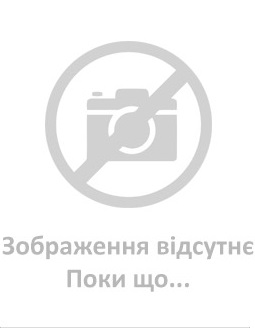
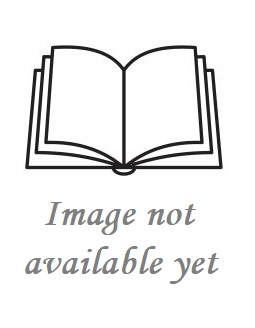
delete header-img, fixed to del from cart, set sweetalert, change img bookEmpty, Cart and Specifibook - add Sweetalert

Changed region(s): [[0.0, 0.122, 0.9882, 0.8841], [0.0, 0.9756, 0.9608, 1.0], [0.1647, 0.6098, 0.2471, 0.7012]]

diff --git a/src/Components/Cart.js b/src/Components/Cart.js
@@ -5,16 +5,17 @@ import { BookCartContext } from "../App";
 import { useContext } from 'react';
 import BookToCart from './BookToCart';
 import { useNavigate } from 'react-router-dom';
-
+import Swal from 'sweetalert2'
+import withReactContent from 'sweetalert2-react-content'
 
 function FullCart({ array }) {
     let sum = 0;
     const [BookCart] = useContext(BookCartContext);
-    BookCart.forEach((b) => sum += b.totalPrice*100);
+    BookCart.forEach((b) => sum += b.totalPrice);
     return (
         <>
             {array.map((b) => <BookToCart book={b} key={b.id} />)}
-            <div className="totalPrice"><p><b>Total price, $ {sum/100}</b></p></div>
+            <div className="totalPrice"><p><b>Total price, $ {sum.toFixed(2)}</b></p></div>
         </>
     )
 }
@@ -22,9 +23,9 @@ function FullCart({ array }) {
 function EmptyCart() {
     return (
         <>
-            <div className="container_form_v">
-                <img src={cart2} alt="basket" width="200" height="200" />
-                <div>
+            <div className="container_emptyCart">
+                <img className="img-emptyCart" src={cart2} alt="basket" width="200" height="200" />
+                <div className="text-emptyCart">
                     Cart empty...
                 </div>
             </div>
@@ -34,10 +35,15 @@ export default function Cart() {
     const [BookCart, setBookCart] = useContext(BookCartContext);
     const navigate = useNavigate();
     let cart = BookCart.length > 0 ? <FullCart array={BookCart} /> : <EmptyCart />;
+    const MySwal = withReactContent(Swal);
     const clearCart = () => {
         setBookCart([]);
-        alert('Дякуємо за покупку');
-        navigate("/book-list");
+        MySwal.fire({
+            icon:"success",
+            title: <p>Thank you for purchase</p>
+           }).then(() => {
+            navigate("/book-list");
+          }) ;      
     }
     const shopping=()=>{
         navigate("/book-list");   

diff --git a/src/Components/BookList.js b/src/Components/BookList.js
@@ -2,17 +2,15 @@ import Card from './Card';
 import '../index.css';
 import { useState, useContext } from "react";
 import { BookContext } from "../App";
-import { UserContext } from '../App';
 
 export default function BookList() {
-    const [user,setUser] = useContext(UserContext); 
     const books = useContext(BookContext);
     const [arrayBook, setArrayBook] = useState(books);
 
     const arrayCard = arrayBook.map((b) => <Card book={b} key={b.id}></Card>);
-    const less15="0 < ціна <=15";
-    const between1530="15 < ціна <=30";
-    const more30="ціна > 30";
+    const less15="0 < price <=15";
+    const between1530="15 < price <=30";
+    const more30="price > 30";
 
     function priceSort(order) {
         let array = [...books];
@@ -41,7 +39,7 @@ export default function BookList() {
     }
 
     return (
-        <main className='main'>
+        <main>
             <div className="container  d-flex">
                 <div>
                     <br />
@@ -53,7 +51,7 @@ export default function BookList() {
                         Price
                     </button>
                     <ul className="dropdown-menu">
-                        <li><button onClick={() => priceSort('all')} className="dropdown-item" href="#">Всі</button></li>
+                        <li><button onClick={() => priceSort('all')} className="dropdown-item" href="#">All</button></li>
                         <li><button onClick={() => priceSort('less15')} className="dropdown-item" href="#">{less15}</button></li>
                         <li><button onClick={() => priceSort('15-30')} className="dropdown-item" href="#">{between1530}</button></li>
                         <li><button onClick={() => priceSort('more30')} className="dropdown-item" href="#">{more30}</button></li>

diff --git a/src/Components/Specificbook.js b/src/Components/Specificbook.js
@@ -4,6 +4,9 @@ import { useState, useContext} from 'react';
 import { BookContext } from "../App";
 import bookEmpty from "./bookEmpty.jpg";
 import { BookCartContext } from "../App";
+import Swal from 'sweetalert2'
+import withReactContent from 'sweetalert2-react-content'
+
 
 export default function SpecificBook() {
     const books = useContext(BookContext);
@@ -15,7 +18,8 @@ export default function SpecificBook() {
     const arrayTags = [...resultBook.tags];
     const [priceTotal, setPriceTotal] = useState(resultBook.price);
     const [count, setCount] = useState(1);
-    
+    const MySwal = withReactContent(Swal);
+
     const AddToCart = () => {
        let resArray=[...BookCart];
         let resFind = resArray.find(book => book.id === id);
@@ -31,10 +35,12 @@ export default function SpecificBook() {
                 totalPrice: count * resultBook.price,
                 id: id,
             };
-            setBookCart([...BookCart, AddBook]);
-            
+            setBookCart([...BookCart, AddBook]);   
         }
-        alert(`${count} Added to the cart`);
+       MySwal.fire({
+        icon:"success",
+        title: <p>Added to the cart</p>
+       });
     }
 
     const countInput = ((event) => {

diff --git a/src/index.css b/src/index.css
@@ -3,7 +3,6 @@ html,body {
   margin: 0;
   padding: 0;
 }
-
 body {
   font-family: 'Roboto', sans-serif;
 }
@@ -26,7 +25,7 @@ body * {
 }
 .main{
   display:flex;
-  height: 81vh;
+  height: 80vh;
   justify-content: center;
   margin: 0 0 0 0;
   background-color: hsl(60, 67%, 92%);  
@@ -64,6 +63,7 @@ button[type=submit] {
 input[type=text], button[type=submit], .container_form_v, form {
   width:100%;
 } 
+
 }
 
 
@@ -303,4 +303,17 @@ div.noPage p {
   justify-content: center;
   margin: 20px 0 20px 0;
   flex-wrap: wrap;
+}
+
+
+.container_emptyCart {
+  display:flex;
+  align-items: center;
+  flex-direction: column;
+}
+.img-emptyCart {
+  margin-top: 50px;
+}
+.text-emptyCart {
+  margin-bottom: 120px;
 }

diff --git a/src/Components/BookToCart.js b/src/Components/BookToCart.js
@@ -2,19 +2,16 @@ import basket from "../Components/pngwing.com.png";
 import { useContext} from 'react';
 import { BookCartContext } from "../App";
 
-export default function BookToCart({ book, id }) {
+export default function BookToCart({ book}) {
     const [BookCart, setBookCart] = useContext(BookCartContext);
    
     const deleteBook = () => {
     let resArray=[...BookCart];
-    let i=0;
-    let index=0;
-    resArray.forEach((b) => { 
-        if (b.id===book.id) index=i;
-        i++
-    });
+   let index=resArray.findIndex((b) => b.id===book.id);
+   if (index!=-1) {
     resArray.splice(index, 1);
     setBookCart(resArray);
+   }
     };
     return (
         <div className="book-cart-row">

diff --git a/src/Components/Header.js b/src/Components/Header.js
@@ -6,14 +6,14 @@ import { UserContext } from '../App';
 import bookshelfWall from '../Components/bookshelfWall.png'
 
 export default function Header() {
-const [user,setUser] = useContext(UserContext); 
+const [user] = useContext(UserContext); 
 let headerbar= user!==''? <HeaderBar />: null;
     return (
         <header className="header-style">
         <nav className="navbar">
             <div className="container d-flex justify-content-space-between">
                 <h2 className="header_title">X-course task / Larisa Olashyn </h2>
-                <img  src={bookshelfWall} alt="bookShelf" width="370" height="77"/>
+              
                 {headerbar}
             </div>
         </nav>
